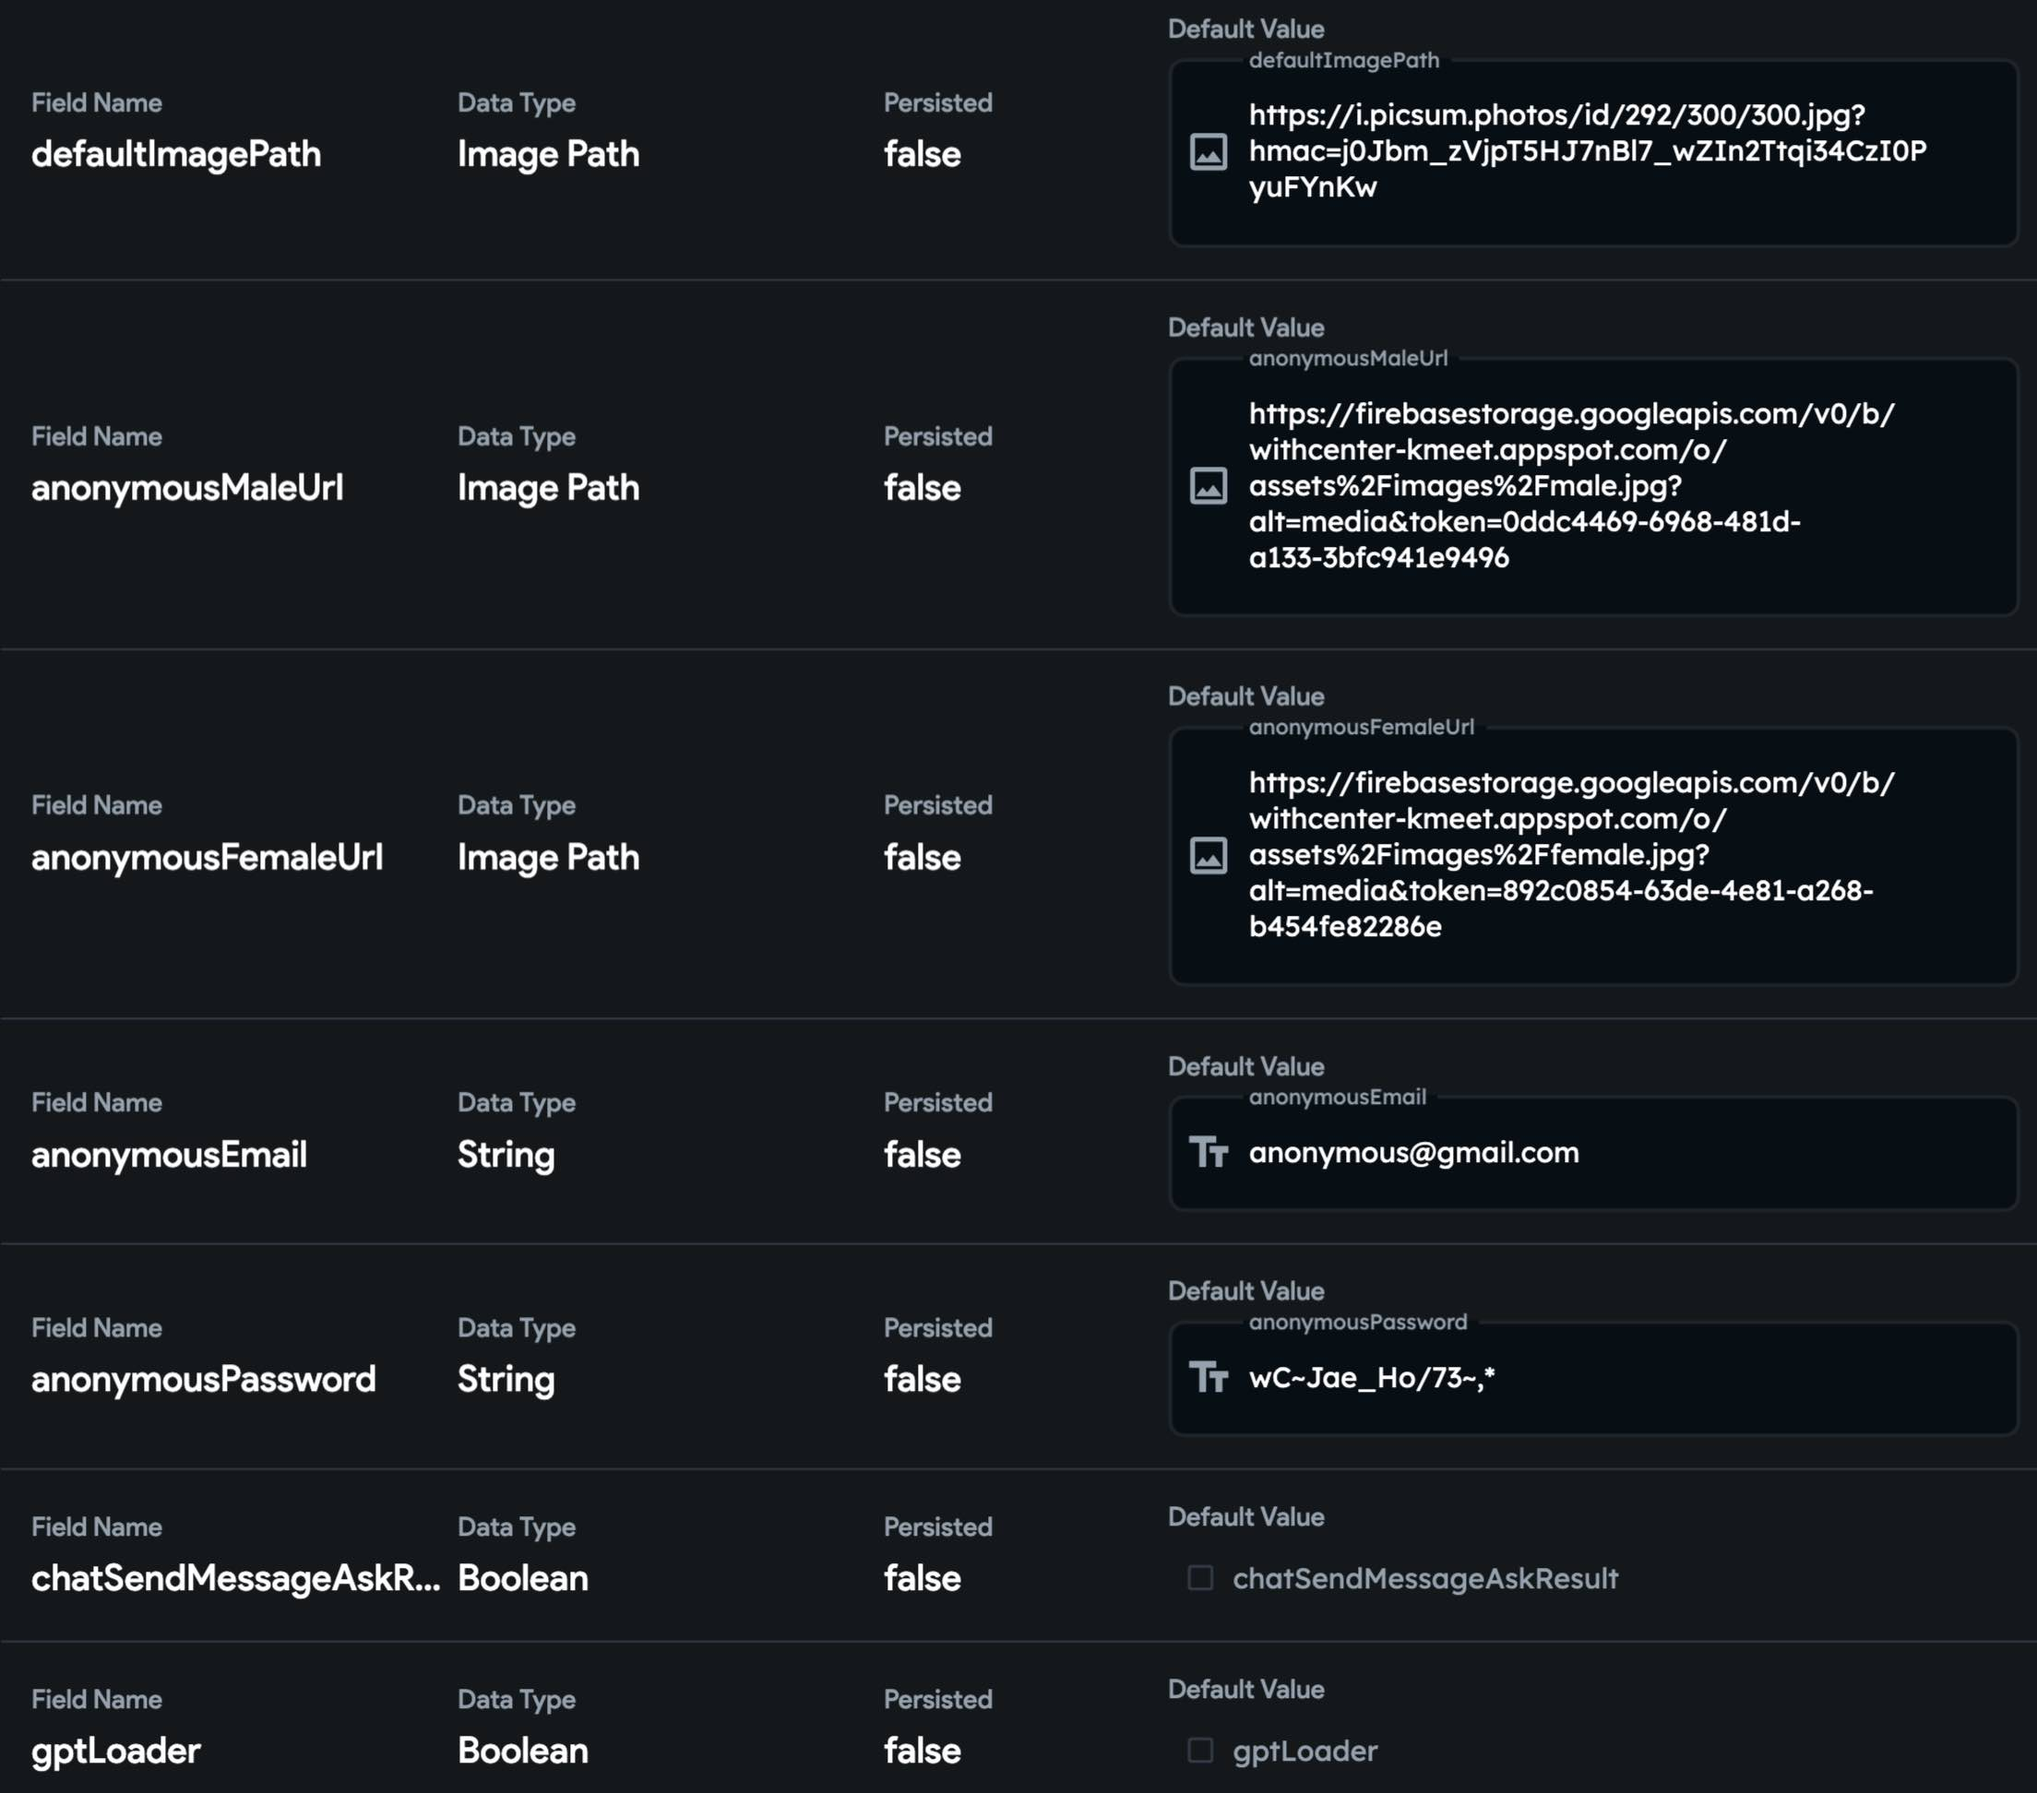
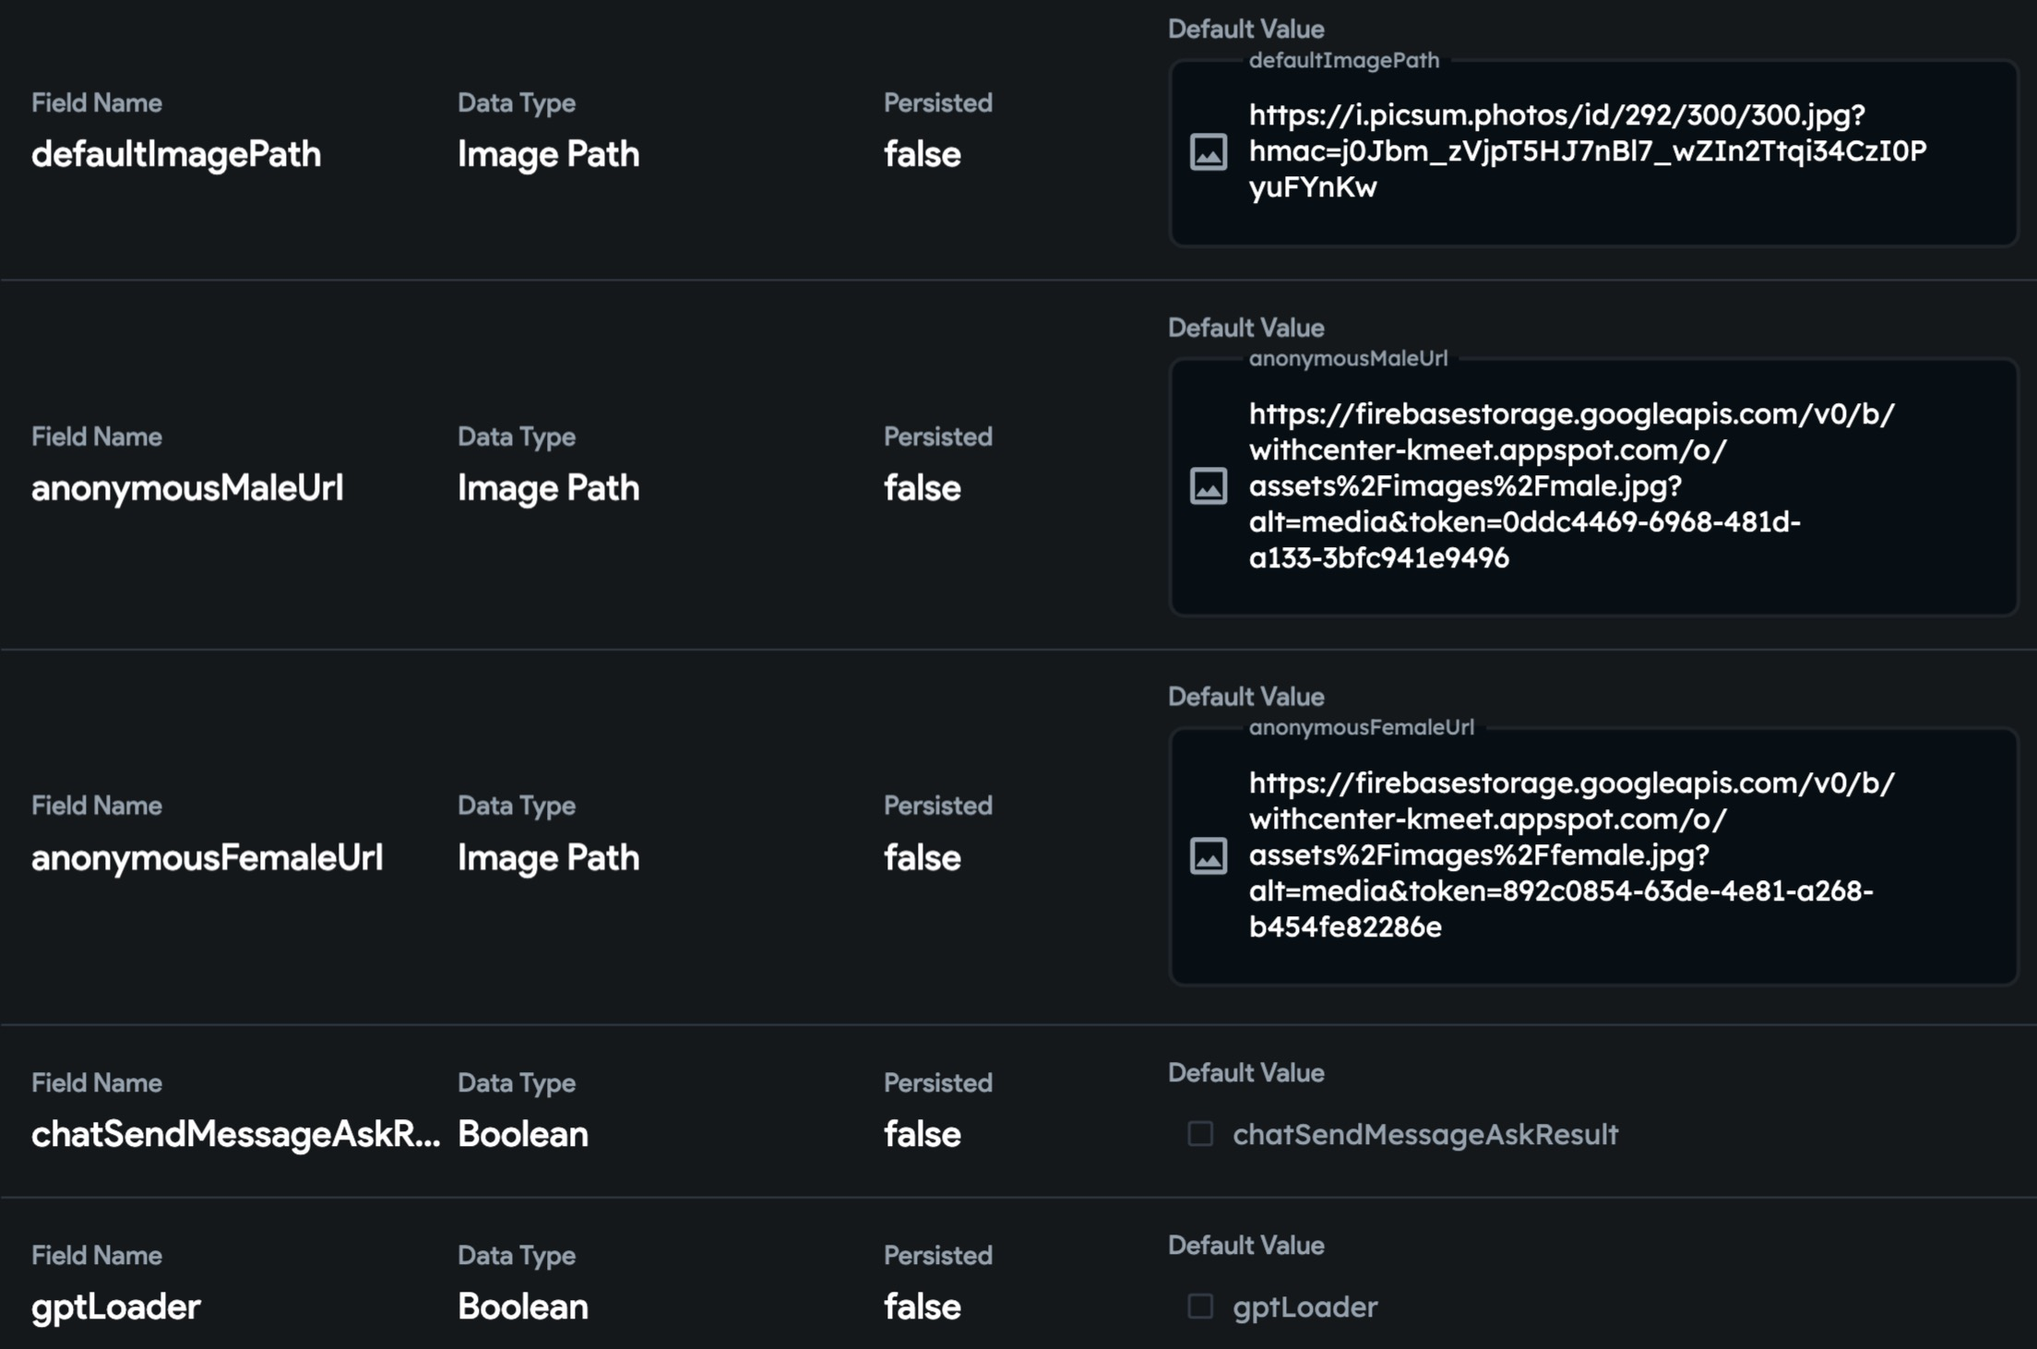
local state

diff --git a/README.md b/README.md
@@ -180,6 +180,13 @@ The `onTapMessage` is the push notification handler while the app is foreground.
 
 There are few local state variables that Fireflow uses.
 
+![Image Link](https://github.com/withcenter/fireflow/blob/main/etc/readme/img/ff-local-states.jpg?raw=true "Adding App Service")
+
+- `defaultImagePath` is the image path that will be used by default. For instance, when you add a Image widget and sometimes it needs the default image.
+- `anonymousMaleUrl` is the male picture url that will be shown by default when the user is male and has no profile photo.
+- `anonymousFemaleUrl` is the female picture url that will be used when the user is female and has no profile photo.
+- `chatSendMessageAskResult` is  
+
 
 
 # User
